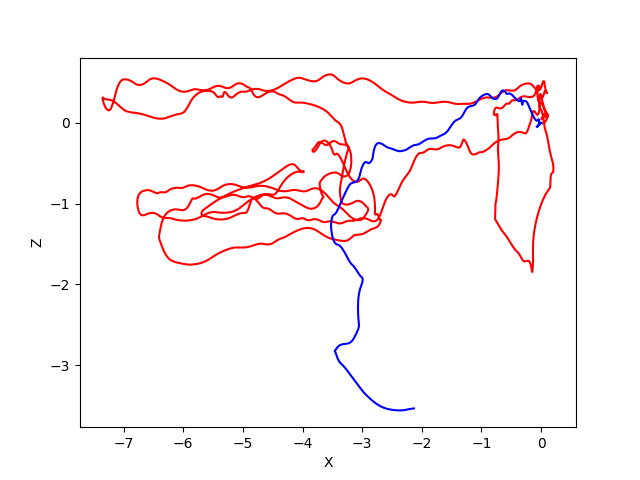
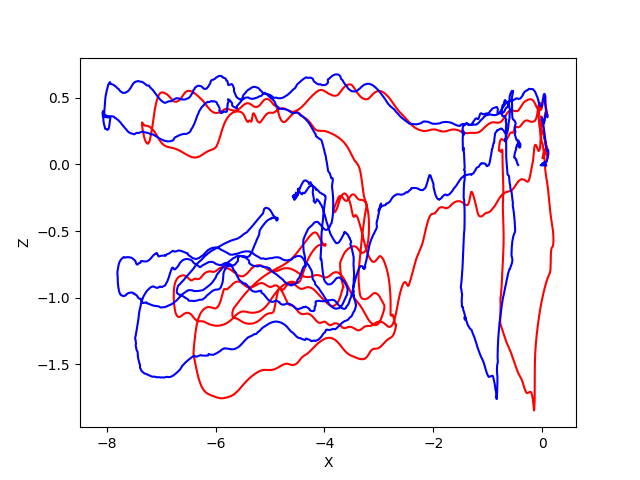
graphs galore

diff --git a/Code/vio.py b/Code/vio.py
@@ -58,7 +58,7 @@ class VIO(object):
         measured_position_array = np.zeros((3,1))
         while True:
             feature_msg = self.feature_queue.get()
-            if feature_msg is None or step_count >= 600:
+            if feature_msg is None:
                 graph_positional_error(measured_position_array)
                 return
             print('feature_msg', feature_msg.timestamp)
@@ -88,8 +88,8 @@ if __name__ == '__main__':
     args = parser.parse_args()
 
     if args.view:
-        # viewer = Viewer()
-        pass
+        viewer = Viewer()
+        # pass
     else:
         viewer = None
 

diff --git a/Code/viewer.py b/Code/viewer.py
@@ -1,6 +1,6 @@
 import numpy as np
 import OpenGL.GL as gl
-# import pangolin
+import pangolin
 import cv2
 
 from multiprocessing import Queue, Process
